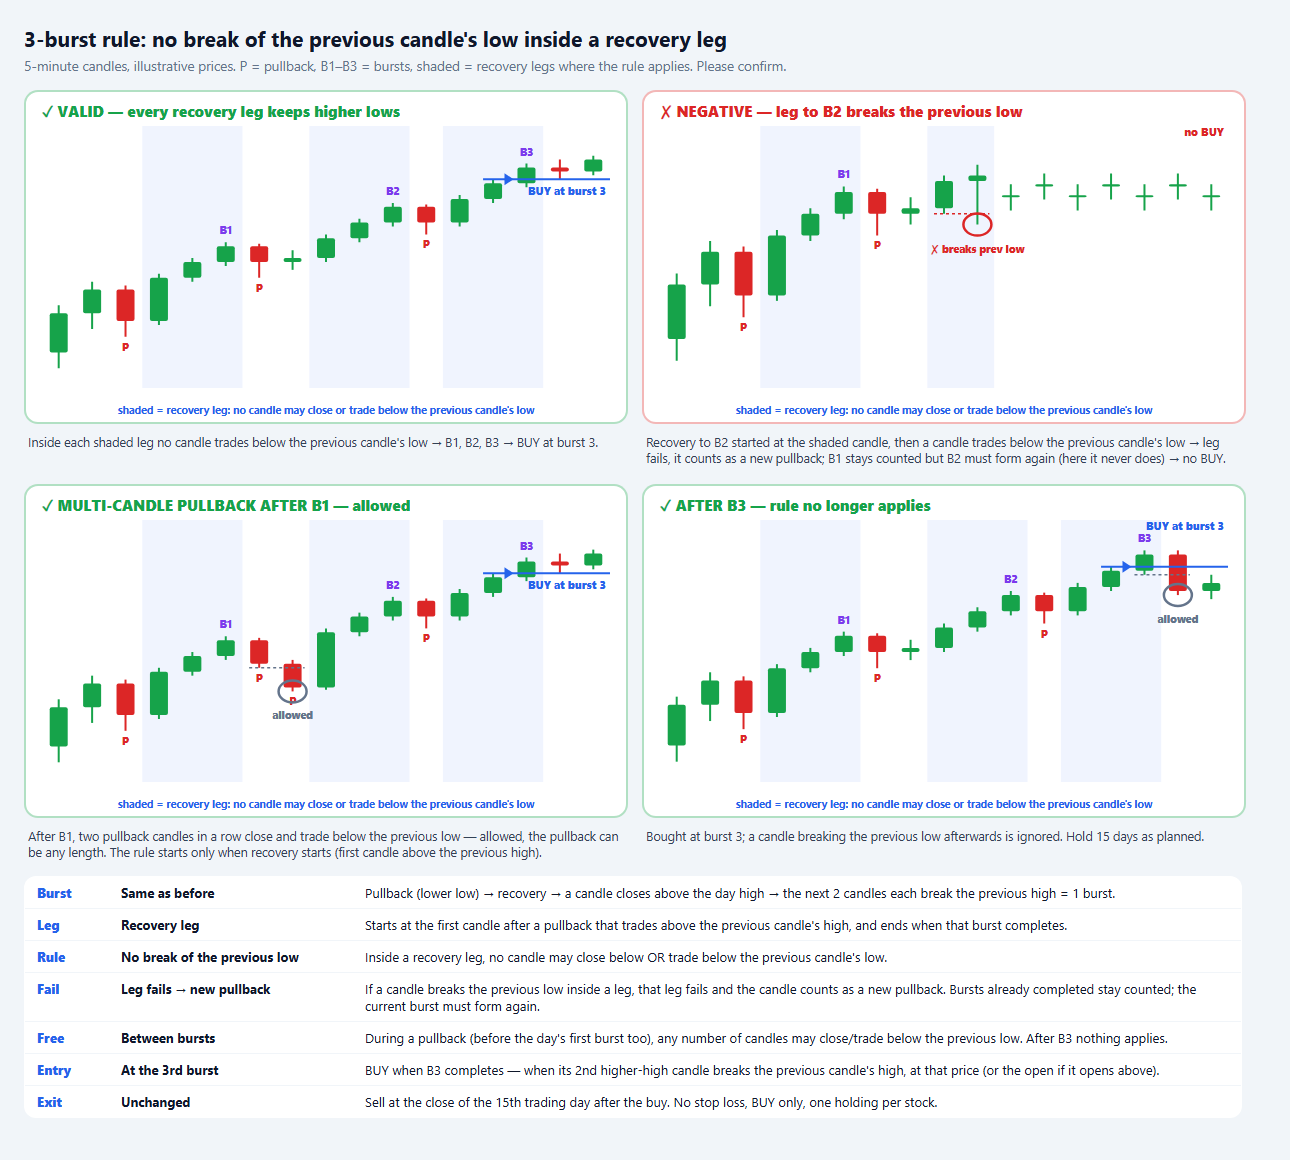
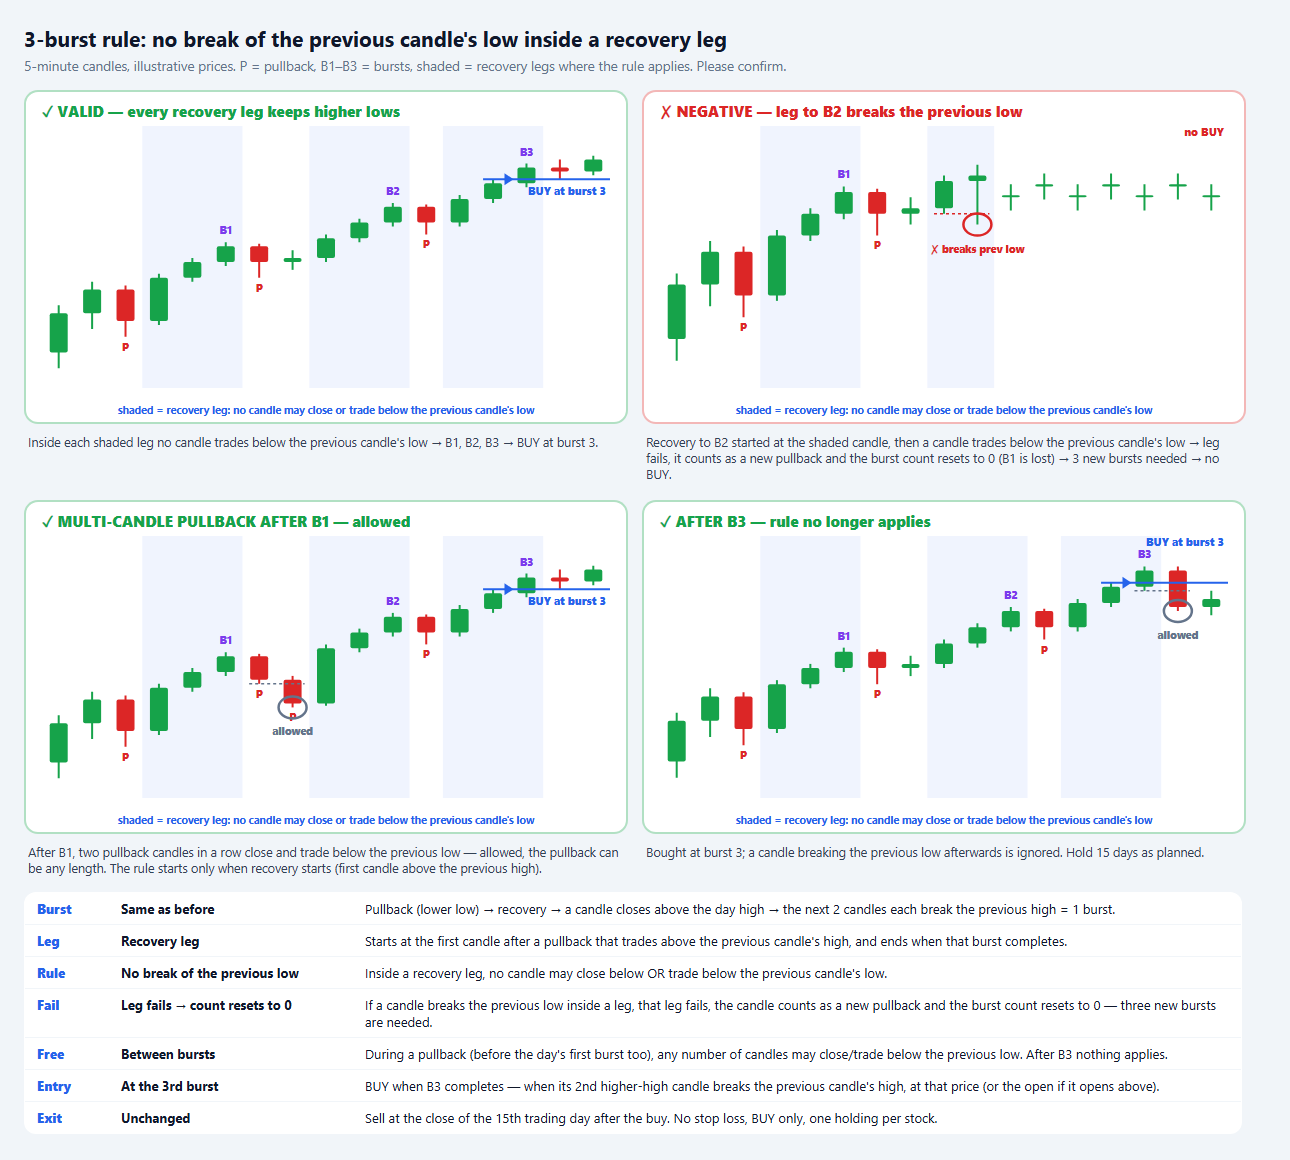
improvement

diff --git a/server/autoTrader.js b/server/autoTrader.js
@@ -151,7 +151,7 @@ function describeStrategies(settings) {
       type: `Swing · hold ${SWING_HOLD_DAYS} days`,
       rules: [
         "Burst = pullback (lower lows) → recovery: a candle closes above the day high → next 2 candles each break the previous high",
-        "Pullback may break lows freely; once recovery starts no candle may trade below the previous candle's low until the burst completes (else it is a new pullback)",
+        "Pullback may break lows freely; once recovery starts no candle may trade below the previous candle's low until the burst completes (else it is a new pullback and the burst count resets to 0)",
         `BUY when burst ${SWING_BURSTS} completes, at the break of the previous high (delivery)`,
         `Sell at the close of the ${SWING_HOLD_DAYS}th trading day · no stop loss · BUY only`,
         "One holding per stock at a time",
@@ -741,7 +741,7 @@ export function createAutoTrader({ kite, withKiteAuth, getInstruments, sendTeleg
   // candle's high -> a candle closes above the day's high -> the next 2 candles each trade above the previous
   // candle's high (if not, wait for another close above the day's high). Inside a recovery leg (from its first
   // candle until the burst completes) no candle may trade below the previous candle's low; if one does the leg
-  // fails and that candle is a new pullback (bursts already completed stay counted). Returns how many bursts
+  // fails, that candle is a new pullback and the burst count starts again from 0. Returns how many bursts
   // the day had, the candle index where burst number SWING_BURSTS completed and the buy price there.
   function findBursts(candles) {
     let count = 0;
@@ -756,6 +756,7 @@ export function createAutoTrader({ kite, withKiteAuth, getInstruments, sendTeleg
         if (c.low >= prev.low && c.high > prev.high) step = c.close > dayHigh ? "hh1" : "close";
       } else if (c.low < prev.low) {
         step = "pullback";
+        count = 0;
       } else if (step === "close") {
         if (c.close > dayHigh) step = "hh1";
       } else if (c.high > prev.high) {

diff --git a/server/backtest/run.js b/server/backtest/run.js
@@ -299,7 +299,7 @@ function deliveryCharges(side, value) {
 // Returns { idx, price } (price = where that candle broke the previous high, or its open if it opened above)
 // or null. strict = inside a recovery leg (from the first candle above the previous high after a pullback
 // until the occurrence completes) no candle may trade below the previous candle's low; if one does the leg
-// fails and that candle is a new pullback. Pullback candles themselves may break lows freely.
+// fails, that candle is a new pullback and the count resets to 0. Pullback candles themselves may break lows freely.
 function findBursts(candles, strict) {
   let count = 0;
   let step = "wait"; // wait -> pullback -> close -> hh1 -> hh2
@@ -312,7 +312,8 @@ function findBursts(candles, strict) {
     } else if (step === "pullback") {
       if (c.low >= prev.low && c.high > prev.high) step = c.close > dayHigh ? "hh1" : "close"; // recovery starts
     } else if (strict && c.low < prev.low) {
-      step = "pullback"; // broke the previous low inside the leg
+      step = "pullback"; // broke the previous low inside the leg: start counting again
+      count = 0;
     } else if (step === "close") {
       if (c.close > dayHigh) step = "hh1";
     } else if (c.high > prev.high) {
@@ -465,7 +466,7 @@ function main() {
     { name: "PULLBACK: same, stop at pullback high/low, Nifty check 0.4%", stopAt: "pullback", niftyMax: 0.4 },
   ];
   const swingVariants = [
-    { name: "SWING: 3 bursts, no break of previous low inside a recovery leg -> buy at burst 3, hold 15 days (R = % return)", strict: true },
+    { name: "SWING: 3 bursts, no break of previous low inside a recovery leg (else count resets to 0) -> buy at burst 3, hold 15 days (R = % return)", strict: true },
     { name: "SWING (old rule, for comparison): 3 bursts in a day -> buy at close, hold 15 days (R = % return)", strict: false },
   ];
   const trades = Object.fromEntries([...variants, ...pullbackVariants, ...swingVariants].map((v) => [v.name, []]));
